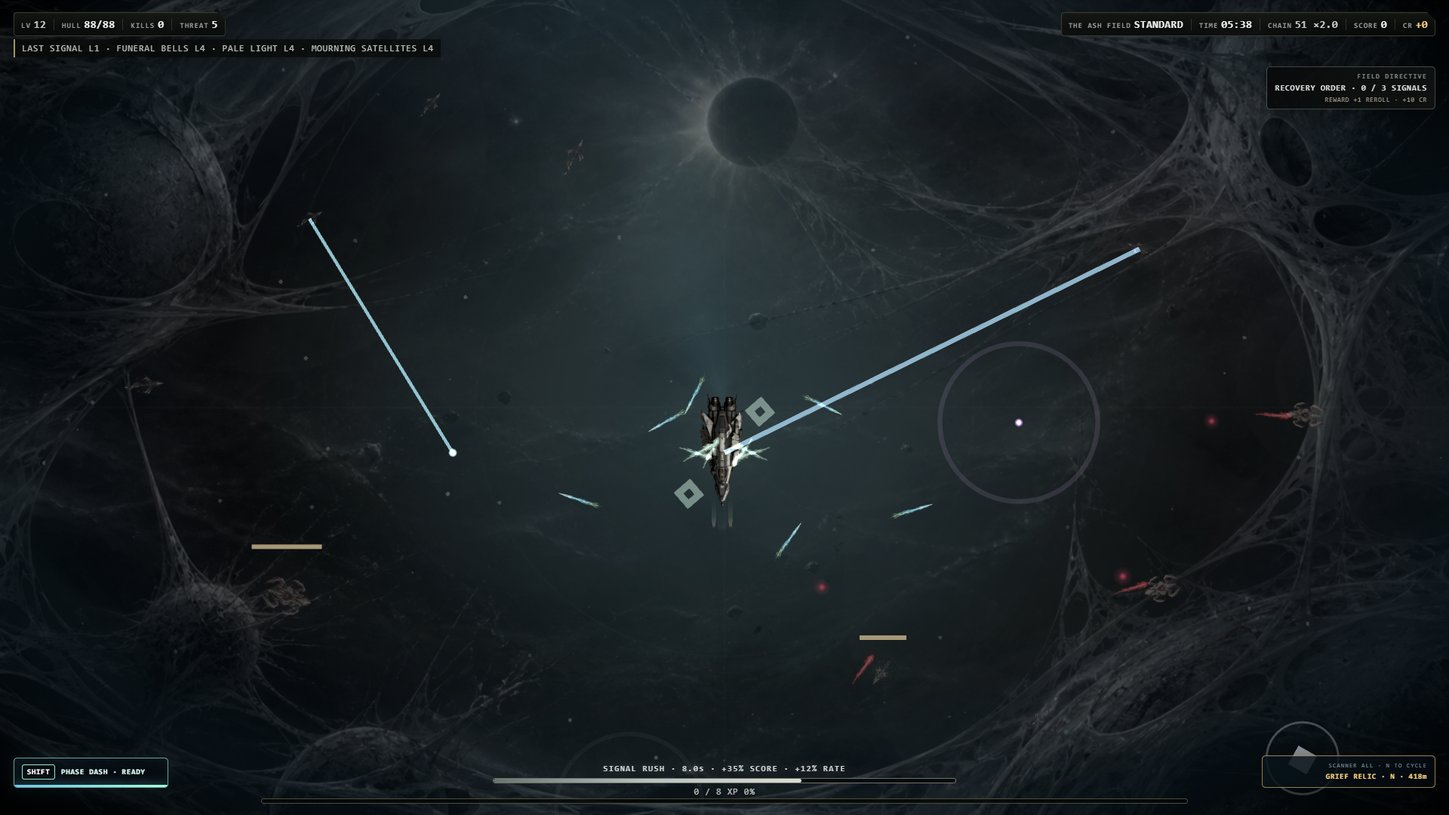
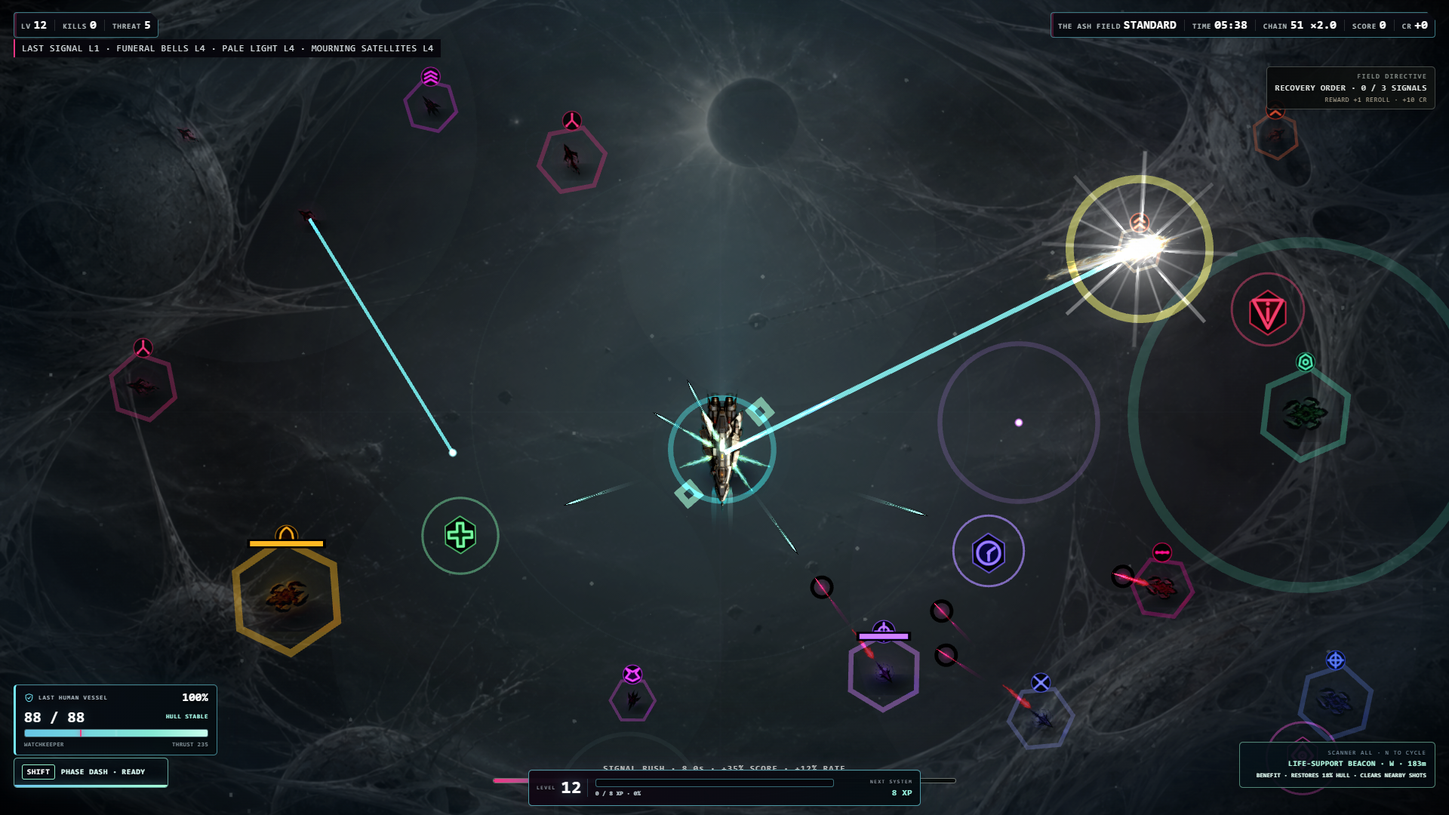
fix: harden desktop controls and encounter pacing

diff --git a/game.js b/game.js
@@ -127,7 +127,7 @@ function importSave(){const code=prompt('Paste ORBIT//04 save code:');if(!code)r
 
 // ---------- AUDIO ----------
 const AUDIO=(()=>{
-  let ac=null,master=null,sfxBus=null,musicBus=null,limiter=null,audioScene=null,musicTracks={},ambienceTrack=null,musicDuck=1,nextBeat=0,beat=0,lastKill=0,lastPickup=0,lastEnemyShot=0,lastHit=0,lastError='',lastSuccess=0,attempts=0,spatialVoices=0,voiceLast={},groupLast={},mixFocusUntil=0;
+  let ac=null,master=null,sfxBus=null,musicBus=null,limiter=null,audioScene=null,musicTracks={},ambienceTrack=null,musicDuck=1,musicPassage=-1,musicRotationCount=0,nextBeat=0,beat=0,lastKill=0,lastPickup=0,lastEnemyShot=0,lastHit=0,lastError='',lastSuccess=0,attempts=0,spatialVoices=0,voiceLast={},groupLast={},mixFocusUntil=0;
   const sampleMap={ui:'ui_click',pause:'ui_click',resume:'ui_click',select:'ui_click',reroll:'ui_click',install:'system_install',start:'run_start',level:'level_up',evolve:'achievement',achievement:'achievement',research:'system_install',pulse:['pulse','pulse_alt'],missile:'missile',drone:'drone',arc:'arc',rail:'rail',nova:'nova',mine:'mine',beam:'beam',flak:'flak',rift:'rift',enemyShot:['enemy_shot','enemy_shot_alt'],kill:'kill',pickup:'pickup',archive:'artifact',timeFracture:'phase_shift',hit:'player_hit',convert:'phase_shift',elite:'elite_kill',boss:'boss_warning',doctrine:'achievement',nemesis:'enemy_shot_alt',operation:'streak',ascend:'artifact',paradox:'artifact',danger:'boss_warning',bounty:'streak',cache:'system_install',omega:'achievement',overdrive:'rush_start',rush:'rush_start',rushEnd:'rush_end',graze:'graze',grazeTier:'streak',streak:'streak',crit:'critical',dash:'phase_dash',phase:'phase_shift',bossDown:'boss_down',cacheTick:'ui_click',synergy:'achievement',artifact:'artifact',flawless:'achievement',secret:'artifact',limit:'rush_start',death:'boss_down',victory:'achievement',revive:'run_start'};
   const cinematicLayers={start:{key:'sub_bass',volume:.28,rate:.92},install:{key:'sub_bass',volume:.12,rate:1.18},rail:{key:'sub_bass',volume:.28,rate:.92},nova:{key:'sub_bass',volume:.34,rate:.78},rift:{key:'sub_bass',volume:.34,rate:.68},mine:{key:'sub_bass',volume:.24,rate:1.04},elite:{key:'sub_bass',volume:.32,rate:.72},boss:{key:'sub_bass',volume:.46,rate:.68},bossDown:{key:'sub_bass',volume:.70,rate:.58},death:{key:'sub_bass',volume:.62,rate:.64},rush:{key:'sub_bass',volume:.24,rate:.96},archive:{key:'sub_bass',volume:.16,rate:1.10},artifact:{key:'sub_bass',volume:.28,rate:.76},achievement:{key:'sub_bass',volume:.14,rate:1.04}};
   const materialLayers={bossDown:{key:'organic_heavy',volume:.42,rate:.74},boss:{key:'organic_heavy',volume:.18,rate:.64},hit:{key:'sub_bass',volume:.20,rate:1.05}};
@@ -146,7 +146,7 @@ const AUDIO=(()=>{
   function sampleContext(){return audioScene?.sound?.context||audioScene?.sound?.audioContext||null}
   function recoverManager(){try{const sound=audioScene?.sound;if(!sound)return false;sound.pauseOnBlur=false;if(enabled()){if(typeof sound.setMute==='function')sound.setMute(false);else sound.mute=false;if(typeof sound.setVolume==='function')sound.setVolume(1);else sound.volume=1}if(sound.locked&&typeof sound.unlock==='function')sound.unlock();const context=sampleContext();if(context?.state==='suspended'){const resumed=context.resume();resumed?.catch?.(error=>{lastError=error?.message||String(error)})}return sound.locked!==true&&context?.state!=='closed'}catch(error){lastError=error?.message||String(error);return false}}
   function unlockSamples(){return recoverManager()}
-  function status(){const context=sampleContext(),sound=audioScene?.sound,activeSamples=(sound?.sounds||[]).filter(item=>item?.isPlaying).length,musicPlaying=Object.values(musicTracks).filter(track=>track?.isPlaying).length,ready=context?.state==='running'&&sound?.locked!==true&&sound?.mute!==true;return{enabled:enabled(),fallback:ac?.state||'not-started',samples:audioScene?'loaded':'not-attached',sampleContext:context?.state||'unavailable',locked:sound?.locked===true,muted:sound?.mute===true,managerVolume:Number.isFinite(sound?.volume)?sound.volume:1,activeSamples,musicPlaying,ambiencePlaying:ambienceTrack?.isPlaying===true,mix:sound?._orbitMixNode?'STUDIO':'BASIC',library:'CURATED CC0 SFX · 9-TRACK LICENSED SCORE',spatialVoices,confirmed:lastSuccess>0&&ready,attempts,error:lastError}}
+  function status(){const context=sampleContext(),sound=audioScene?.sound,activeSamples=(sound?.sounds||[]).filter(item=>item?.isPlaying).length,musicPlaying=Object.values(musicTracks).filter(track=>track?.isPlaying).length,ready=context?.state==='running'&&sound?.locked!==true&&sound?.mute!==true,activeMusicKeys=Object.entries(musicTracks).filter(([,track])=>(track?._orbitGain||0)>.08).map(([key])=>key);return{enabled:enabled(),fallback:ac?.state||'not-started',samples:audioScene?'loaded':'not-attached',sampleContext:context?.state||'unavailable',locked:sound?.locked===true,muted:sound?.mute===true,managerVolume:Number.isFinite(sound?.volume)?sound.volume:1,activeSamples,musicPlaying,ambiencePlaying:ambienceTrack?.isPlaying===true,musicPassage,musicRotationCount,activeMusicKeys,mix:sound?._orbitMixNode?'STUDIO':'BASIC',library:'CURATED CC0 SFX · 9-TRACK LICENSED SCORE',spatialVoices,confirmed:lastSuccess>0&&ready,attempts,error:lastError}}
   function installStudioMix(){const sound=audioScene?.sound,context=sampleContext();if(!sound||!context?.createDynamicsCompressor||!sound.masterVolumeNode)return false;if(sound._orbitMixNode){limiter=sound._orbitMixNode.compressor;master=sound._orbitMixNode.output;return true}try{const compressor=context.createDynamicsCompressor(),output=context.createGain();sound.masterVolumeNode.disconnect();sound.masterVolumeNode.connect(compressor);compressor.connect(output);output.connect(context.destination);sound._orbitMixNode={compressor,output};limiter=compressor;master=output;return true}catch(error){lastError=error?.message||String(error);return false}}
   function attach(scene){audioScene=scene;if(audioScene?.sound)audioScene.sound.pauseOnBlur=false;recoverManager();ensure();setMix()}
   function spatialMix(position){if(!position||!state?.p)return{pan:0,gain:1};const dx=(position.x??state.p.x)-state.p.x,dy=(position.y??state.p.y)-state.p.y,distance=Math.hypot(dx,dy),pan=clamp(dx/(W*.58),-.82,.82),gain=1-clamp(distance/(Math.hypot(W,H)*1.15),0,.48);return{pan,gain}}
@@ -155,8 +155,9 @@ const AUDIO=(()=>{
     const keys=['exploration','exploration_alt','combat','combat_alt','pressure','boss','boss_alt','climax','fracture'];if(!audioScene||keys.some(k=>!audioScene.cache.audio.exists(`audio-music_${k}`))||!unlockSamples())return false;
     if(!enabled()||save.settings.musicVolume==='OFF'){for(const track of Object.values(musicTracks))track.stop();ambienceTrack?.stop();return true}
     try{for(const key of keys){if(!musicTracks[key]){const track=audioScene.sound.add(`audio-music_${key}`,{loop:true,volume:0});track._orbitGain=0;musicTracks[key]=track}if(!musicTracks[key].isPlaying&&!musicTracks[key].isPaused&&musicTracks[key].play()===false)return false}if(!ambienceTrack&&audioScene.cache.audio.exists('audio-engine_loop')){ambienceTrack=audioScene.sound.add('audio-engine_loop',{loop:true,volume:0,rate:.82});ambienceTrack._orbitGain=0}if(ambienceTrack&&!ambienceTrack.isPlaying&&!ambienceTrack.isPaused)ambienceTrack.play()}catch(error){lastError=error?.message||String(error);return false}
-    musicDuck+=(1-musicDuck)*.016;const threat=info.threat||1,drive=info.drive||0,chain=info.chain||0,pressure=clamp((threat-1)*.105+drive*.12+Math.min(.18,chain*.004)+(info.rush?.32:0)+(info.redline?.10:0),0,1),alternate=Math.floor((info.time||0)/96)%2===1,bossAlternate=(info.bossStage||0)%2===0,bossPhase=info.bossPhase||1,targets={exploration:0,exploration_alt:0,combat:0,combat_alt:0,pressure:0,boss:0,boss_alt:0,climax:0,fracture:0};
-    if(info.fracture)targets.fracture=.96;else if(info.boss&&bossPhase>=3){targets.climax=.94;targets[bossAlternate?'boss_alt':'boss']=.30}else if(info.boss){targets[bossAlternate?'boss_alt':'boss']=.94;targets[alternate?'combat_alt':'combat']=.18}else{targets[alternate?'exploration_alt':'exploration']=.82-pressure*.70;targets[alternate?'combat_alt':'combat']=.08+pressure*.76;targets.pressure=Math.max(0,(pressure-.48)*.62)}
+    musicDuck+=(1-musicDuck)*.016;const threat=info.threat||1,drive=info.drive||0,chain=info.chain||0,pressure=clamp((threat-1)*.105+drive*.12+Math.min(.18,chain*.004)+(info.rush?.32:0)+(info.redline?.10:0),0,1),passage=Math.floor((info.time||0)/56)%4,bossAlternate=(Math.floor((info.time||0)/32)+(info.bossStage||0))%2===0,bossPhase=info.bossPhase||1,targets={exploration:0,exploration_alt:0,combat:0,combat_alt:0,pressure:0,boss:0,boss_alt:0,climax:0,fracture:0};
+    if(passage!==musicPassage){musicPassage=passage;musicRotationCount++}
+    if(info.fracture)targets.fracture=.96;else if(info.boss&&bossPhase>=3){targets.climax=.94;targets[bossAlternate?'boss_alt':'boss']=.30}else if(info.boss){targets[bossAlternate?'boss_alt':'boss']=.94;targets[passage%2?'combat_alt':'combat']=.20}else if(passage===0){targets.exploration=.82-pressure*.60;targets.combat=.08+pressure*.66;targets.pressure=Math.max(0,(pressure-.56)*.56)}else if(passage===1){targets.exploration_alt=.76-pressure*.52;targets.combat_alt=.13+pressure*.65;targets.pressure=.03+Math.max(0,(pressure-.45)*.48)}else if(passage===2){targets.exploration=.30-pressure*.12;targets.combat_alt=.28+pressure*.52;targets.pressure=.08+pressure*.24}else{targets.exploration_alt=.22-pressure*.08;targets.combat=.36+pressure*.48;targets.pressure=.12+pressure*.30}
     const base=.76*mixValue(save.settings.musicVolume,.7)*mixProfile().music*musicDuck,fractureRate=info.fracture?.62:1;
     for(const [key,track] of Object.entries(musicTracks)){track._orbitGain+=((targets[key]||0)-track._orbitGain)*.014;const energyRate=key.startsWith('combat')||key==='pressure'?1+pressure*.018:key.startsWith('boss')||key==='climax'?1+Math.min(.012,drive*.003):1;track.setRate(clamp(energyRate*fractureRate,.56,1.04));track.setVolume(base*track._orbitGain)}if(ambienceTrack){const target=info.fracture?.025:.07+(info.moving?.065:0)+Math.min(.045,drive*.012)+(info.redline?.025:0);ambienceTrack._orbitGain+=(target-ambienceTrack._orbitGain)*.045;ambienceTrack.setRate(info.fracture?.48:.78+(info.moving?.10:0)+Math.min(.10,drive*.025));ambienceTrack.setVolume(ambienceTrack._orbitGain*mixValue(save.settings.sfxVolume,1)*mixProfile().sfx)}lastSuccess=performance.now();return true
   }
@@ -186,7 +187,7 @@ const AUDIO=(()=>{
   function releaseFocus(){musicDuck=Math.max(musicDuck,.72);setMix()}
   function syncEnabled(){if(enabled()){recoverManager();ensure();setMix();return true}try{audioScene?.sound?.stopAll?.()}catch(_error){}resetMusic();return false}
   function testOutput(){if(!enabled())return false;recoverManager();ensure();voiceLast={};groupLast={};mixFocusUntil=0;const first=playSample('pulse',0,1);setTimeout(()=>playSample('rail',0,.88),520);setTimeout(()=>playSample('achievement',0,.74),1450);return first||!!ac}
-  function resetMusic(){nextBeat=0;beat=0;musicDuck=1;voiceLast={};groupLast={};mixFocusUntil=0;for(const track of Object.values(musicTracks))track.stop();musicTracks={};ambienceTrack?.stop();ambienceTrack=null}return{sfx,music,resetMusic,ensure,setMix,syncEnabled,testOutput,attach,pauseMusic,releaseFocus,status};
+  function resetMusic(){nextBeat=0;beat=0;musicDuck=1;musicPassage=-1;musicRotationCount=0;voiceLast={};groupLast={};mixFocusUntil=0;for(const track of Object.values(musicTracks))track.stop();musicTracks={};ambienceTrack?.stop();ambienceTrack=null}return{sfx,music,resetMusic,ensure,setMix,syncEnabled,testOutput,attach,pauseMusic,releaseFocus,status};
 })();
 
 // ---------- CONTENT DATA ----------
@@ -576,7 +577,7 @@ $('pauseLoadoutBtn').onclick=openRunIntel;$('loadoutBackBtn').onclick=closeRunIn
 const keys={},touch={active:false,startX:0,startY:0,x:0,y:0},mouse={active:false,inside:false,x:W/2,y:H/2};let gamepadPauseLatch=false,gamepadUiOverlay='',gamepadUiMoveLatch=false,gamepadUiALatch=false,gamepadUiBLatch=false;
 addEventListener('pointerdown',()=>AUDIO.ensure(),{passive:true});
 addEventListener('keydown',e=>{
-  const k=e.key.toLowerCase();keys[k]=true;AUDIO.ensure();
+  const k=e.key.toLowerCase();if(k==='tab'&&(e.altKey||e.metaKey)){keys[k]=false;return}keys[k]=true;AUDIO.ensure();
   if(['arrowup','arrowdown','arrowleft','arrowright',' ','tab'].includes(k))e.preventDefault();
   if($('titleScreen').classList.contains('show')&&!e.repeat){
     if(k==='q'){cycleUnlockedFrame(-1);return}if(k==='e'){cycleUnlockedFrame(1);return}
@@ -591,8 +592,10 @@ addEventListener('keydown',e=>{
   if(k==='shift'&&!e.repeat)tryPhaseDash();if(k==='n'&&!e.repeat&&state?.mode==='run'&&!state.choosing&&!state.paused)cycleSignalFilter();if(k==='r'&&state?.gameOver)startRun();if(k==='f')toggleFullscreen();
   if(k==='m'){save.settings.audio=save.settings.audio==='ON'?'OFF':'ON';persist(false);AUDIO.syncEnabled();renderSettings();AUDIO.sfx('ui');toast(save.settings.audio==='ON'?'AUDIO ENABLED':'AUDIO MUTED','Press M to toggle output.')}
 });
-function handleWindowBlur(){mouse.active=false;if(save.settings.autoPause==='ON'&&state?.mode==='run'&&!state.paused&&!state.choosing)pause(true)}
-addEventListener('keyup',e=>keys[e.key.toLowerCase()]=false);addEventListener('blur',handleWindowBlur);
+function resetInputState(){for(const key of Object.keys(keys))keys[key]=false;mouse.active=false;mouse.inside=false;touch.active=false;gamepadPauseLatch=false;gamepadUiMoveLatch=false;gamepadUiALatch=false;gamepadUiBLatch=false;if(state?.p){state.p.moving=false;state.p._lastMoveX=0;state.p._lastMoveY=-1}}
+function handleWindowBlur(){resetInputState();if(save.settings.autoPause==='ON'&&state?.mode==='run'&&!state.paused&&!state.choosing)pause(true)}
+function handleWindowFocus(){resetInputState();if(state)state.last=performance.now();AUDIO.ensure()}
+addEventListener('keyup',e=>keys[e.key.toLowerCase()]=false);addEventListener('blur',handleWindowBlur);addEventListener('focus',handleWindowFocus);document.addEventListener?.('visibilitychange',()=>document.hidden?handleWindowBlur():handleWindowFocus());
 function pointerToCanvas(e){const r=canvas.getBoundingClientRect();return{x:(e.clientX-r.left)*(W/r.width),y:(e.clientY-r.top)*(H/r.height)}}
 canvas.addEventListener('pointerenter',e=>{if(e.pointerType==='mouse'){mouse.inside=true;const p=pointerToCanvas(e);mouse.x=p.x;mouse.y=p.y}});
 canvas.addEventListener('pointerleave',e=>{if(e.pointerType==='mouse'){mouse.inside=false;mouse.active=false}});
@@ -657,7 +660,7 @@ function updateWorldGeneration(){
   if(!state?.p)return;const pwx=state.worldX+state.p.x,pwy=state.worldY+state.p.y,cx=Math.floor(pwx/WORLD_CELL_SIZE),cy=Math.floor(pwy/WORLD_CELL_SIZE);
   for(let x=cx-WORLD_GENERATION_RADIUS;x<=cx+WORLD_GENERATION_RADIUS;x++)for(let y=cy-WORLD_GENERATION_RADIUS;y<=cy+WORLD_GENERATION_RADIUS;y++)generateWorldCell(x,y);
   for(const site of state.worldSites){site.x=site.wx-state.worldX;site.y=site.wy-state.worldY;site.active=withinWorldRange(site,site.size+120)}
-  for(const node of state.worldNodes){node.x=node.wx-state.worldX;node.y=node.wy-state.worldY;node.active=!node.collected&&withinWorldRange(node,460);if(node.active&&dist2(node,state.p)<(node.r+state.p.r+5)*(node.r+state.p.r+5))collectWorldNode(node)}
+  for(const node of state.worldNodes){node.x=node.wx-state.worldX;node.y=node.wy-state.worldY;node.active=!node.collected&&withinWorldRange(node,460);const contact=node.r+state.p.r+5,safeSignal=node.disposition==='boon'||node.disposition==='rare',pickupRadius=safeSignal?Math.max(contact,state.p.magnet*.82+node.r):contact;if(node.active&&dist2(node,state.p)<pickupRadius*pickupRadius)collectWorldNode(node)}
 }
 const SIGNAL_FILTERS=['ALL','SUPPORT','TIME','RISK'];
 function signalMatchesFilter(node,filter=state?.signalFilter||'ALL'){if(filter==='ALL')return true;if(filter==='SUPPORT')return['repair','flux','salvage'].includes(node.type);if(filter==='TIME')return node.type==='fracture';return node.type==='relic'||node.type==='jammer'}
@@ -791,16 +794,16 @@ function spawnNemesis(){if(state.enemies.some(e=>e.nemesis&&!e.dead))return;cons
 MIRRORING ${WEAPON_META[mimic]?.name||mimic.toUpperCase()}`,1250)}
 function startBounty(){if(state.bounty||state.bossStage>=3)return;const e=spawnEnemy(null,true);e.bounty=true;e.color='#ffdf70';state.bounty={enemy:e,until:state.time+14};AUDIO.sfx('bounty');message('SIGNAL WINDOW\nELIMINATE TARGET — 14 SEC',1000)}
 function activeEnemyCount(){return state.enemies.reduce((count,enemy)=>count+(!enemy.dead?1:0),0)}
-function enemyPopulationCap(bossAlive=state.enemies.some(enemy=>enemy.boss&&!enemy.dead),approach=null){if(approach===null){const untilBoss=nextBossTime()-state.time;approach=!bossAlive&&untilBoss>0&&untilBoss<=20}const progression=Math.min(60,Math.floor(state.time/50)*7),difficultyPressure=Math.max(0,(state.diff.spawn-1)*42),contractPressure=Math.max(0,((state.contract?.spawn||1)-1)*34),sectorPressure=Math.max(0,((state.sector?.spawn||1)-1)*30),ascensionPressure=Math.min(40,state.ascension*11),base=86+progression+difficultyPressure+contractPressure+sectorPressure+ascensionPressure,encounterScale=approach?.64:bossAlive?.76:1;return clamp(Math.round(base*encounterScale),62,MAX_ENEMIES)}
+function enemyPopulationCap(bossAlive=state.enemies.some(enemy=>enemy.boss&&!enemy.dead),approach=null){if(approach===null){const untilBoss=nextBossTime()-state.time;approach=!bossAlive&&untilBoss>0&&untilBoss<=20}const progression=Math.min(68,Math.floor(state.time/45)*8),difficultyPressure=Math.max(0,(state.diff.spawn-1)*42),contractPressure=Math.max(0,((state.contract?.spawn||1)-1)*34),sectorPressure=Math.max(0,((state.sector?.spawn||1)-1)*30),ascensionPressure=Math.min(40,state.ascension*11),base=102+progression+difficultyPressure+contractPressure+sectorPressure+ascensionPressure,encounterScale=approach?.60:bossAlive?.74:1;return clamp(Math.round(base*encounterScale),66,MAX_ENEMIES)}
 function spawnEnemyGroup(count,typeForIndex=null,headroom=0){const available=Math.max(0,enemyPopulationCap()-headroom-activeEnemyCount()),amount=Math.min(Math.max(0,Math.floor(count)),available),spawned=[];for(let i=0;i<amount;i++){const type=typeof typeForIndex==='function'?typeForIndex(i):typeForIndex;spawned.push(spawnEnemy(type))}return spawned}
 function triggerAnomaly(){const roll=Math.random();if(roll<.34){message('ANOMALY\nHOSTILE INTERCEPT',850);spawnEnemyGroup(Math.min(12,6+Math.ceil(state.threat*.55)),null,2);if(activeEnemyCount()<enemyPopulationCap())spawnEnemy(null,true)}else if(roll<.68){message('ANOMALY\nSALVAGE BURST',850);for(let i=0;i<10;i++){const a=Math.random()*Math.PI*2,r=80+Math.random()*100;state.orbs.push({x:clamp(state.p.x+Math.cos(a)*r,20,W-20),y:clamp(state.p.y+Math.sin(a)*r,20,H-20),r:5,val:2,dead:false})}}else{message('ANOMALY\nSIGNAL SURGE — WEAPONS ACCELERATED',900);state.surgeUntil=Math.max(state.surgeUntil,state.time+12);AUDIO.sfx('overdrive',2)}state.nextAnomaly+=105+Math.random()*35}
 function triggerSecretEvent(){state.secretEvents++;save.stats.secretEvents++;AUDIO.sfx('secret');const roll=Math.random();if(roll<.25){message('UNKNOWN TRANSMISSION\nLOST ESCORT ACQUIRED',1100);state.allies.push({x:state.p.x+30,y:state.p.y,type:'gunner',elite:true,r:9,life:30,fireT:.1,baseFire:.42,damageMul:1.8,expired:false})}else if(roll<.50){message('UNKNOWN TRANSMISSION\nBLACK BOX CARRIER',1100);const e=spawnEnemy('tank',true);e.secretCache='OMEGA';e.color='#ffffff';e.hp*=1.8;e.maxHp=e.hp;e.damage*=1.25}else if(roll<.75){message('UNKNOWN TRANSMISSION\nMIRROR PACKET',1000);spawnEnemyGroup(9,index=>index%3===0?'charger':'scout',2)}else{message('UNKNOWN TRANSMISSION\nDERELICT CACHE FIELD',1000);for(let i=0;i<3;i++){const a=Math.random()*Math.PI*2,r=90+Math.random()*120;state.caches.push({x:clamp(state.p.x+Math.cos(a)*r,20,W-20),y:clamp(state.p.y+Math.sin(a)*r,20,H-20),r:7,rarity:i===2?'RARE':'CACHE',life:35,dead:false})}}state.nextSecret+=(145+Math.random()*90)/(state.sector?.secret||1)}
 function updatePressure(){const threat=1+Math.floor(state.time/55);if(threat>state.threat){state.threat=threat;AUDIO.sfx('danger');message(`THREAT ${String(threat).padStart(2,'0')}\nHOSTILES ESCALATING`,800)}if(state.time>=state.nextBounty){startBounty();state.nextBounty+=72}if(state.time>=state.nextAnomaly)triggerAnomaly();if(state.time>=state.nextSecret)triggerSecretEvent();if(state.time>=state.nextNemesis){spawnNemesis();state.nextNemesis+=state.endless?130:9999};if(state.bounty&&state.time>state.bounty.until){const e=state.bounty.enemy;if(e&&!e.dead){e.bounty=false;e.speed*=1.35;e.damage*=1.35;e.color='#ff3f59';AUDIO.sfx('danger');message('SIGNAL LOST\nTARGET ENRAGED',750)}state.bounty=null}}
 function nextBossTime(){if(state.endless)return state.nextEndlessBoss;if(state.bossStage===0)return 210;if(state.bossStage===1)return 450;if(state.bossStage===2)return RUN_TARGET;return Infinity}
 function spawnWave(dt){
-  state.spawnT-=dt;const bossAlive=state.enemies.some(e=>e.boss&&!e.dead),untilBoss=nextBossTime()-state.time,approach=!bossAlive&&untilBoss>0&&untilBoss<=20,activeCount=activeEnemyCount(),activeCap=enemyPopulationCap(bossAlive,approach),populationPressure=activeCount/Math.max(1,activeCap),pressureBrake=1-.72*clamp((populationPressure-.64)/.36),density=(approach?.48:bossAlive?.68:1)*Math.max(.22,pressureBrake),base=Math.max(.095,.54-state.time*.00065),interval=base/(state.diff.spawn*(state.contract?.spawn||1)*(state.sector?.spawn||1)*(1+state.ascension*.12)*density);
+  state.spawnT-=dt;const bossAlive=state.enemies.some(e=>e.boss&&!e.dead),untilBoss=nextBossTime()-state.time,approach=!bossAlive&&untilBoss>0&&untilBoss<=20,activeCount=activeEnemyCount(),activeCap=enemyPopulationCap(bossAlive,approach),populationPressure=activeCount/Math.max(1,activeCap),pressureBrake=1-.68*clamp((populationPressure-.72)/.28),density=(approach?.52:bossAlive?.72:1)*Math.max(.32,pressureBrake),base=Math.max(.085,.44-state.time*.00058),interval=base/(state.diff.spawn*(state.contract?.spawn||1)*(state.sector?.spawn||1)*(1+state.ascension*.12)*density);
   if(approach&&state.preBossWarningStage!==state.bossStage){state.preBossWarningStage=state.bossStage;rewardCue('SIGNATURE APPROACHING','HOSTILE INFLOW COLLAPSING',2,1700);AUDIO.sfx('danger')}
-  if(state.spawnT<=0){state.spawnT=interval;if(activeCount<activeCap){spawnEnemy();let admitted=activeCount+1;if(!approach&&populationPressure<.70&&state.time>65&&Math.random()<Math.min(.78,state.time/620)&&admitted<activeCap){spawnEnemy();admitted++}if(!approach&&populationPressure<.46&&state.time>285&&Math.random()<.25+state.ascension*.035&&admitted<activeCap)spawnEnemy()}}if(!approach&&state.time>=state.eliteT){if(activeCount<activeCap-2)spawnEnemy(null,true);state.eliteT+=(30+Math.random()*12)/(state.sector?.elite||1)/(1+state.ascension*.08)}if(!state.endless){if(state.bossStage===0&&state.time>=210&&!bossAlive){state.bossStage=1;spawnBoss(1)}else if(state.bossStage===1&&state.time>=450&&!bossAlive){state.bossStage=2;spawnBoss(2)}else if(state.bossStage===2&&state.time>=RUN_TARGET&&!bossAlive){state.bossStage=3;spawnBoss(3)}}else if(state.time>=state.nextEndlessBoss&&!bossAlive){state.bossStage=3+state.ascension;spawnBoss(state.bossStage);state.nextEndlessBoss=state.time+Math.max(75,135-state.ascension*8)}
+  if(state.spawnT<=0){state.spawnT=interval;if(activeCount<activeCap){spawnEnemy();let admitted=activeCount+1;if(!approach&&populationPressure<.78&&state.time>24&&Math.random()<Math.min(.86,.22+state.time/520)&&admitted<activeCap){spawnEnemy();admitted++}if(!approach&&populationPressure<.56&&state.time>135&&Math.random()<.22+state.ascension*.035&&admitted<activeCap)spawnEnemy()}}if(!approach&&state.time>=state.eliteT){if(activeCount<activeCap-2)spawnEnemy(null,true);state.eliteT+=(30+Math.random()*12)/(state.sector?.elite||1)/(1+state.ascension*.08)}if(!state.endless){if(state.bossStage===0&&state.time>=210&&!bossAlive){state.bossStage=1;spawnBoss(1)}else if(state.bossStage===1&&state.time>=450&&!bossAlive){state.bossStage=2;spawnBoss(2)}else if(state.bossStage===2&&state.time>=RUN_TARGET&&!bossAlive){state.bossStage=3;spawnBoss(3)}}else if(state.time>=state.nextEndlessBoss&&!bossAlive){state.bossStage=3+state.ascension;spawnBoss(state.bossStage);state.nextEndlessBoss=state.time+Math.max(75,135-state.ascension*8)}
 }
 
 // ---------- COMBAT ----------

diff --git a/tests/smoke.js b/tests/smoke.js
@@ -21,9 +21,10 @@ els.game.getContext=()=>({imageSmoothingEnabled:false,save(){},restore(){},fillR
 const dataClose=[...html.matchAll(/data-close="([^"]+)"/g)].map(m=>{const e=new El();e.dataset.close=m[1];return e});
 const document={getElementById:id=>els[id],querySelectorAll:q=>q==='[data-close]'?dataClose:[],createElement:()=>new El(),body:new El('body'),fullscreenElement:null,exitFullscreen(){}};
 const store={};
-const ctx={console,document,G,Phaser:{Display:{Color:{HexStringToColor:()=>({color:0xffffff})}},Geom:{Point},BlendModes:{ADD:1},WEBGL:2,Scale:{NONE:0}},window:null,navigator:{userAgent:'node-test',getGamepads:()=>[]},location:{search:'?test=1'},localStorage:{getItem:k=>store[k]||null,setItem:(k,v)=>store[k]=String(v)},performance:{now:()=>1000},requestAnimationFrame:()=>{},setTimeout:(fn)=>{ /* suppress async visuals in smoke test */ return 1},clearTimeout:()=>{},confirm:()=>true,prompt:()=>null,alert:()=>{},open:()=>{},btoa:s=>Buffer.from(s,'binary').toString('base64'),atob:s=>Buffer.from(s,'base64').toString('binary'),URLSearchParams,Math,JSON,Date,Array,Object,Set,Map,String,Number,Boolean,RegExp,Error,parseInt,parseFloat,isNaN,Infinity,NaN};
+const windowListeners={};
+const ctx={console,document,windowListeners,G,Phaser:{Display:{Color:{HexStringToColor:()=>({color:0xffffff})}},Geom:{Point},BlendModes:{ADD:1},WEBGL:2,Scale:{NONE:0}},window:null,navigator:{userAgent:'node-test',getGamepads:()=>[]},location:{search:'?test=1'},localStorage:{getItem:k=>store[k]||null,setItem:(k,v)=>store[k]=String(v)},performance:{now:()=>1000},requestAnimationFrame:()=>{},setTimeout:(fn)=>{ /* suppress async visuals in smoke test */ return 1},clearTimeout:()=>{},confirm:()=>true,prompt:()=>null,alert:()=>{},open:()=>{},btoa:s=>Buffer.from(s,'binary').toString('base64'),atob:s=>Buffer.from(s,'base64').toString('binary'),URLSearchParams,Math,JSON,Date,Array,Object,Set,Map,String,Number,Boolean,RegExp,Error,parseInt,parseFloat,isNaN,Infinity,NaN};
 ctx.window=ctx;
-ctx.addEventListener=()=>{};
+ctx.addEventListener=(type,handler)=>{(windowListeners[type]??=[]).push(handler)};
 vm.createContext(ctx);
 const code=fs.readFileSync(path.join(root,'game.js'),'utf8');
 vm.runInContext(code,ctx,{filename:'game.js'});
@@ -40,7 +41,7 @@ vm.runInContext(`
   save.settings.audio='OFF';document.getElementById('difficultyPrev').onclick();if(save.difficulty!=='HARDLINE') throw new Error('previous difficulty control failed');document.getElementById('difficultyNext').onclick();if(save.difficulty!=='STANDARD') throw new Error('next difficulty control failed');document.getElementById('contractPrev').onclick();if(save.contract!=='FRAGILE') throw new Error('previous contract control failed');document.getElementById('contractNext').onclick();if(save.contract!=='NONE') throw new Error('next contract control failed');if(!document.getElementById('launchSummary').innerHTML.includes('WATCHKEEPER')||!document.getElementById('startBtn').innerHTML.includes('DEPLOY WATCHKEEPER')||!document.getElementById('startBtn').innerHTML.includes('ENTER')) throw new Error('deployment summary is incomplete');if(!document.getElementById('framePrevBtn').disabled||!document.getElementById('frameNextBtn').disabled)throw new Error('single-frame hangar navigation should be disabled');save.unlocked.push('bastion');if(!cycleUnlockedFrame(1)||save.selected!=='bastion')throw new Error('next-frame hangar shortcut failed');if(!cycleUnlockedFrame(-1)||save.selected!=='striker')throw new Error('previous-frame hangar shortcut failed');save.unlocked.pop();renderMenu();
   if(selectFieldDirective()!=='recovery') throw new Error('first directive rotation is incorrect');save.runs=1;if(selectFieldDirective()!=='transit') throw new Error('second directive rotation is incorrect');save.runs=2;if(selectFieldDirective()!=='attrition') throw new Error('third directive rotation is incorrect');save.runs=0;startRun();
   state.p.iFrames=9999;
-  const openingPopulationCap=enemyPopulationCap(false,false),savedPopulation=state.enemies;if(openingPopulationCap<84||openingPopulationCap>96||openingPopulationCap>=MAX_ENEMIES)throw new Error('opening encounter population budget is invalid');state.enemies=Array.from({length:openingPopulationCap},()=>({dead:false,boss:false}));if(spawnEnemyGroup(6).length!==0)throw new Error('encounter director exceeded its active population budget');state.enemies=savedPopulation;
+  const openingPopulationCap=enemyPopulationCap(false,false),savedPopulation=state.enemies;if(openingPopulationCap<98||openingPopulationCap>110||openingPopulationCap>=MAX_ENEMIES)throw new Error('opening encounter population budget is invalid');state.enemies=Array.from({length:openingPopulationCap},()=>({dead:false,boss:false}));if(spawnEnemyGroup(6).length!==0)throw new Error('encounter director exceeded its active population budget');state.enemies=[];state.time=30;state.spawnT=0;const densityRandom=Math.random;Math.random=()=>0;spawnWave(.1);Math.random=densityRandom;if(state.enemies.length!==2)throw new Error('opening encounter cadence did not admit an early hostile pair');state.enemies=savedPopulation;state.time=0;state.spawnT=0;
   updateDirectiveHud();if(state.directiveId!=='recovery'||document.getElementById('directiveTracker').classList.contains('hidden')||!document.getElementById('directiveTrackerText').textContent.includes('RECOVERY ORDER')) throw new Error('field directive did not initialize');
   const nearTarget=spawnEnemy('scout',false,{x:state.p.x+40,y:state.p.y}),weakTarget=spawnEnemy('scout',false,{x:state.p.x+170,y:state.p.y}),eliteTarget=spawnEnemy('tank',true,{x:state.p.x+250,y:state.p.y}),targetSet=enemy=>enemy===nearTarget||enemy===weakTarget||enemy===eliteTarget;weakTarget.hp=weakTarget.maxHp*.05;
   const weaponFxBefore=state.weaponFx.length;fireProjectile(state.p.x,state.p.y,nearTarget,420,10,{weaponId:'rail',color:'#d8c68b'});if(state.weaponFx.length!==weaponFxBefore+1||state.p.weaponKick<=0||state.p.weaponAngle!==0||state.bullets.at(-1).maxLife!==state.bullets.at(-1).life) throw new Error('weapon firing presentation event failed');
@@ -49,7 +50,7 @@ vm.runInContext(`
   save.settings.targetPriority='LOW HULL'; if(nearest(state.p,targetSet)!==weakTarget) throw new Error('low-hull targeting priority failed');
   save.settings.targetPriority='ELITES FIRST'; if(nearest(state.p,targetSet)!==eliteTarget) throw new Error('elite targeting priority failed');
   save.settings.targetPriority='NEAREST'; nearTarget.dead=weakTarget.dead=eliteTarget.dead=true;
-  save.settings.autoPause='OFF';handleWindowBlur();if(state.paused) throw new Error('focus-loss pause ignored the disabled setting');save.settings.autoPause='ON';handleWindowBlur();if(!state.paused) throw new Error('focus-loss pause failed');pause(false);
+  keys.w=true;keys.tab=true;mouse.active=true;touch.active=true;save.settings.autoPause='OFF';handleWindowBlur();if(state.paused) throw new Error('focus-loss pause ignored the disabled setting');if(keys.w||keys.tab||mouse.active||touch.active||state.p.moving)throw new Error('focus-loss input reset failed');const altTabEvent={key:'Tab',altKey:true,metaKey:false,preventDefault(){this.prevented=true},target:{}};windowListeners.keydown[0](altTabEvent);if(keys.tab||document.getElementById('loadoutScreen').classList.contains('show'))throw new Error('Alt+Tab was intercepted as a game shortcut');save.settings.autoPause='ON';handleWindowBlur();if(!state.paused) throw new Error('focus-loss pause failed');handleWindowFocus();if(keys.w||keys.tab||state.last!==performance.now())throw new Error('focus-return input recovery failed');pause(false);
   if(selectEnemyType(30,.50)!=='scout'||selectEnemyType(30,.10)!=='tank'||selectEnemyType(70,.70)!=='tank') throw new Error('early heavy-ship encounter mix is incorrect');if(selectEnemyType(140,.53)!=='moth'||selectEnemyType(260,.055)!=='anchor')throw new Error('new hostile roles are absent from encounter selection');const moth=spawnEnemy('moth',false,{x:state.p.x+180,y:state.p.y}),anchor=spawnEnemy('anchor',false,{x:state.p.x+220,y:state.p.y});if(moth.speed<=anchor.speed||moth.r>=anchor.r||!ENEMY_META.moth||!ENEMY_META.anchor)throw new Error('new hostile roles do not have distinct movement profiles');moth.dead=anchor.dead=true;
   keys.d=true; const dashStart=state.p.x; state.enemyBullets.push({x:state.p.x+82,y:state.p.y,r:3,life:2,damage:1,grazed:false,vx:0,vy:0});
   if(!tryPhaseDash()||state.p.x<=dashStart||state.p.dashCooldown<=0||state.enemyBullets[0].life>0) throw new Error('PHASE DASH failed');
@@ -65,6 +66,7 @@ vm.runInContext(`
   const offscreenPriority=spawnEnemy('gunner',true,{x:-140,y:state.p.y}); offscreenPriority.nemesis=true; offscreenPriority.nemesisName='ECHO HUNTER'; updatePriorityHud();
   if(document.getElementById('prioritySignal').classList.contains('hidden')||!document.getElementById('prioritySignalText').textContent.includes('ECHO HUNTER')) throw new Error('off-screen priority compass failed');
   offscreenPriority.dead=true; updatePriorityHud(); if(!document.getElementById('prioritySignal').classList.contains('hidden')) throw new Error('priority compass did not clear');
+  fractureSignal.collected=true;state.p.magnet=180;const magnetBoon={type:'salvage',wx:state.worldX+state.p.x+120,wy:state.worldY+state.p.y,x:state.p.x+120,y:state.p.y,r:15,color:'#8de9ff',disposition:'boon',collected:false,active:true},magnetRisk={type:'relic',wx:state.worldX+state.p.x+120,wy:state.worldY+state.p.y,x:state.p.x+120,y:state.p.y,r:15,color:'#ff6177',disposition:'risk',collected:false,active:true};state.worldNodes.push(magnetBoon,magnetRisk);updateWorldGeneration();if(!magnetBoon.collected||magnetRisk.collected)throw new Error('pickup radius did not collect safe signals or removed risk agency');state.p.magnet=state.p.baseMagnet;
   state.p.hp=state.p.maxHp*.5; const hpBefore=state.p.hp; if(!collectWorldNode({type:'repair',x:state.p.x,y:state.p.y,color:'#79f0ca',disposition:'boon',collected:false})||state.p.hp<=hpBefore) throw new Error('repair relay failed');
   state.fieldBoostUntil=0; const powerBefore=weaponPower('pulse',state.weapons.pulse); collectWorldNode({type:'flux',x:state.p.x,y:state.p.y,color:'#8de9ff',disposition:'boon',collected:false}); if(weaponPower('pulse',state.weapons.pulse)<=powerBefore) throw new Error('flux amplifier failed');
   collectWorldNode({type:'jammer',x:state.p.x,y:state.p.y,color:'#ff6177',disposition:'hazard',collected:false}); if(state.interferenceUntil<=state.time||state.hazardFinds!==1) throw new Error('world hazard failed');const directivesBefore=save.stats.directivesCompleted,rerollsBeforeDirective=state.rerolls;if(!checkFieldDirective()||!state.directiveComplete||save.stats.directivesCompleted!==directivesBefore+1||state.rerolls!==rerollsBeforeDirective+1) throw new Error('field directive completion failed');updateDirectiveHud();if(!document.getElementById('directiveTracker').classList.contains('hidden')||!document.getElementById('rewardRibbonTitle').textContent.includes('FIELD DIRECTIVE')) throw new Error('field directive completion feedback failed');
@@ -86,7 +88,7 @@ vm.runInContext(`
   if(!document.getElementById('audioStatusText').textContent.includes('MUTED IN GAME')) throw new Error('audio status did not report disabled output');
   let fallbackStarts=0,sampleAttempts=0;const musicRates={}; window.AudioContext=class{constructor(){this.state='running';this.sampleRate=8000;this.currentTime=0;this.destination={}}createGain(){return{gain:{value:0,setValueAtTime(){},exponentialRampToValueAtTime(){}},connect(){}}}createOscillator(){return{frequency:{setValueAtTime(){},exponentialRampToValueAtTime(){}},connect(){},start(){fallbackStarts++},stop(){}}}createBuffer(){return{getChannelData:()=>new Float32Array(800)}}createBufferSource(){return{connect(){},start(){},stop(){}}}resume(){return Promise.resolve()}};
   AUDIO.attach({sound:{locked:false,pauseOnBlur:true,context:{state:'running'},sounds:[],play(){sampleAttempts++;return false},add(key){return{isPlaying:false,isPaused:false,play(){this.isPlaying=true;return true},stop(){this.isPlaying=false},pause(){this.isPlaying=false;this.isPaused=true},resume(){this.isPlaying=true;this.isPaused=false},setRate(value){musicRates[key]=value},setVolume(){}}}},cache:{audio:{exists:()=>true}}});
-  save.settings.audio='ON';AUDIO.music(state.time,{fracture:true,time:state.time});if(!musicRates['audio-music_fracture']||musicRates['audio-music_fracture']>.65||Object.values(musicRates).some(rate=>rate>.65)) throw new Error('Time Fracture did not slow the loaded soundtrack');AUDIO.sfx('enemyShot'); const gatedSampleCount=sampleAttempts; AUDIO.sfx('enemyShot'); if(sampleAttempts!==gatedSampleCount) throw new Error('repetitive audio voice limiting failed');AUDIO.sfx('pulse');const weaponGroupCount=sampleAttempts;AUDIO.sfx('drone');if(sampleAttempts!==weaponGroupCount)throw new Error('weapon bus did not suppress same-frame routine clutter');AUDIO.sfx('rail');if(sampleAttempts<=weaponGroupCount)throw new Error('priority weapon cue was incorrectly suppressed');
+  save.settings.audio='ON';AUDIO.music(state.time,{fracture:true,time:state.time});if(!musicRates['audio-music_fracture']||musicRates['audio-music_fracture']>.65||Object.values(musicRates).some(rate=>rate>.65)) throw new Error('Time Fracture did not slow the loaded soundtrack');AUDIO.music(58,{time:58,threat:2});AUDIO.music(116,{time:116,threat:3,drive:1});const musicDirector=AUDIO.status();if(musicDirector.musicPassage!==2||musicDirector.musicRotationCount<3)throw new Error('soundtrack passage rotation did not advance across the run');AUDIO.sfx('enemyShot'); const gatedSampleCount=sampleAttempts; AUDIO.sfx('enemyShot'); if(sampleAttempts!==gatedSampleCount) throw new Error('repetitive audio voice limiting failed');AUDIO.sfx('pulse');const weaponGroupCount=sampleAttempts;AUDIO.sfx('drone');if(sampleAttempts!==weaponGroupCount)throw new Error('weapon bus did not suppress same-frame routine clutter');AUDIO.sfx('rail');if(sampleAttempts<=weaponGroupCount)throw new Error('priority weapon cue was incorrectly suppressed');
   testAudioOutput(); if(save.settings.audio!=='ON'||sampleAttempts===0||fallbackStarts===0||!document.getElementById('audioStatusText').textContent.includes('OUTPUT ACTIVE')) throw new Error('audio output recovery failed'); save.settings.audio='OFF';
   if(!applySettingsPreset('READABILITY')||save.settings.enemyHp!=='ALL'||save.settings.motion!=='REDUCED'||save.settings.uiScale!=='XXL'||save.settings.effectClarity!=='HIGH') throw new Error('readability profile was not applied');
   state.weaponDamage.pulse=120; state.damageDealt=120;

diff --git a/README.md b/README.md
@@ -183,7 +183,7 @@ The install step runs `postinstall`, which copies the pinned Phaser compatibilit
 | `P` or `Esc` | Pause or resume |
 | `Tab` or `B` | Open or close Run Intel during a run |
 | `M` | Toggle audio |
-| `F` | Toggle fullscreen |
+| `F`, `F11`, or `Alt+Enter` | Toggle borderless fullscreen |
 | `R` | Restart after a completed or failed run |
 
 Weapons fire automatically.
@@ -260,7 +260,7 @@ See [CONTRIBUTING.md](CONTRIBUTING.md) for setup, testing, asset licensing, and 
 
 ## Release status
 
-Version 0.92.0 raises regular encounter pressure while retaining population braking and reduced boss-approach inflow. Grave Moths add fast alternating pursuit lines; Null Anchors hold range and broadcast a readable six-way projectile lattice. The level-up screen removes the remaining yellow cast, identifies first acquisitions as `NEW MODULE` or `NEW SYSTEM`, and adds an optional Resonance Draw with visible probabilities and an earned-resource cost. Phaser remains the simulation, audio, environment, and compatibility host, with Three.js providing the active top-down combat presentation. The repository can generate and validate the offline desktop package and real gameplay captures. A public Steam release still requires external playtesting, minimum-hardware performance validation, a Steamworks App ID and depot, final store capsules, Steam client installation testing, and Valve approval.
+Version 0.92.0 raises regular encounter pressure while retaining population braking and reduced boss-approach inflow. Grave Moths add fast alternating pursuit lines; Null Anchors hold range and broadcast a readable six-way projectile lattice. Alt+Tab now clears all held input state, safe field signals use the ship's full pickup radius, and the soundtrack rotates through four shorter exploration/combat passages. The level-up screen removes the remaining yellow cast, identifies first acquisitions as `NEW MODULE` or `NEW SYSTEM`, and adds an optional Resonance Draw with visible probabilities and an earned-resource cost. Phaser remains the simulation, audio, environment, and compatibility host, with Three.js providing the active top-down combat presentation. The repository can generate and validate the offline desktop package and current 1920 × 1080 gameplay captures. A public Steam release still requires external playtesting, minimum-hardware performance validation, a Steamworks App ID and depot, final store capsules, Steam client installation testing, and Valve approval.
 
 ## License
 

diff --git a/CHANGELOG.md b/CHANGELOG.md
@@ -16,6 +16,13 @@
 - rebuilt upgrade cards around a large name, a dominant instant-effect panel, direct `UPGRADE TO LV` language, and number-key selection without repeating instructions
 - divided the settings list into combat readability, controls, comfort, graphics, and audio sections while retaining presets and individual controls
 - refreshed all three automated interface captures after desktop rendering and overflow verification
+- made borderless fullscreen the default desktop launch mode, with `F`, `F11`, and `Alt+Enter` toggles plus an explicit `--windowed` diagnostic override
+- prevented packaged Explorer launches from crashing on detached-console `EPIPE` writes while retaining file-based diagnostics in the application data directory
+- fixed Alt+Tab focus recovery by clearing held keyboard, pointer, touch, and gamepad state without treating the system shortcut as an in-game `Tab` action
+- rebuilt soundtrack direction into four 56-second passages that rotate both exploration and combat recordings before boss, climax, and Time Fracture overrides
+- connected field-signal collection to the ship's pickup radius while preserving direct-contact confirmation for hazardous and risk-bearing signals
+- raised the regular encounter budget and early multi-spawn cadence, then delayed population braking so the field remains active without crowding boss approaches
+- regenerated and automatically validated all five 1920 × 1080 Steam screenshots from the current Three.js gameplay renderer
 
 ## 0.91.0 — Navigation and Survival HUD
 
